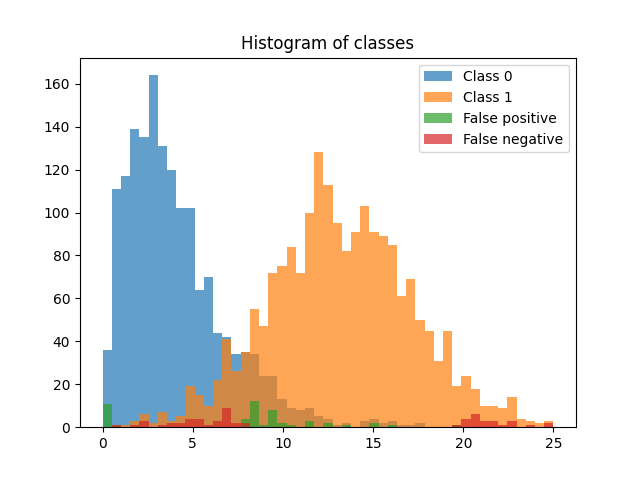
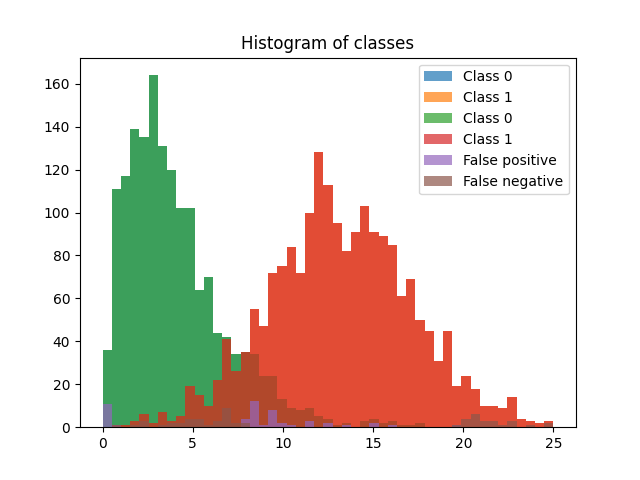
fixed some minor problems

Changed region(s): [[0.1562, 0.1562, 0.875, 0.9062], [0.6562, 0.2188, 0.9062, 0.4062]]

diff --git a/assignment2/assignment2.py b/assignment2/assignment2.py
@@ -8,13 +8,13 @@ features = df.loc[0].to_numpy()
 classification = df.loc[1].to_numpy()
 
 #Plotting the data as histograms to show the features for each class
-# counts, bins = np.histogram(features[np.where(classification<1)])
-# plt.stairs(counts, bins, label="Class 0")
-# counts, bins = np.histogram(features[np.where(classification>0)])
-# plt.stairs(counts, bins, label="Class 1")
-# plt.legend()
-# plt.title("Histogram of classes")
-# plt.savefig("assignment2/Histogram of classes")
+
+bins = np.linspace(0, 25, 50)
+plt.hist(features[np.where(classification<1)], bins, label="Class 0", alpha=0.7)
+plt.hist(features[np.where(classification>0)], bins, label="Class 1", alpha=0.7)
+plt.legend()
+plt.title("Histogram of classes")
+plt.savefig("assignment2/Histogram of classes")
 
 # print(len(features))
 
